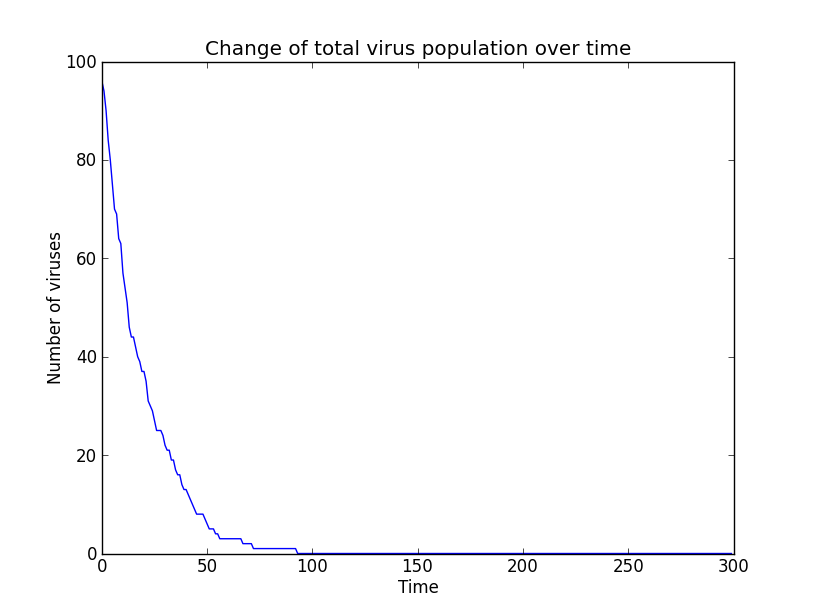
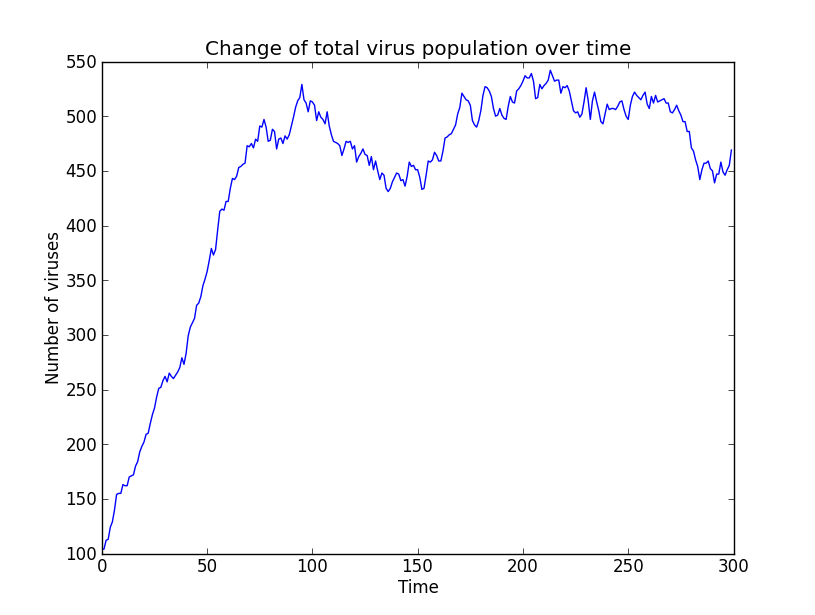
fixed the third and fourth problem. finally.

diff --git a/ps12.py b/ps12.py
@@ -166,7 +166,6 @@ def problem2():
     pylab.show()
 
     
-problem2()
 #
 # PROBLEM 3
 #
@@ -260,32 +259,32 @@ class ResistantVirus(SimpleVirus):
         maxBirthProb and clearProb values as this virus. Raises a
         NoChildException if this virus particle does not reproduce.         
         """
-        #if the virus reistant to any drug in, it should reproduce
-        canIReplicate = False
-        for drug in activeDrugs:
-            if drug not in self.resistances.keys() or self.resistances[drug] == True:
-                canIReplicate = True
-        willIReplicate = False
-        if canIReplicate:
-            willIReplicate = (random.random() < (self.maxBirthProb * (1 - popDensity)))
-        if canIReplicate and willIReplicate:
-            childResist = {}
-            #inheritance from parent virus
-            for resis in self.resistances.keys():
-                if (random.random() < (1 - self.mutProb)) and self.resistances[resis]:
-                    childResist[resis] = self.resistances[resis]
-                else:
-                    childResist[resis] = False
-            #developing new traits by mutation
-            for dres in activeDrugs:
-                if (random.random() < self.mutProb):
-                    childResist[dres] = not childResist[dres]
-                elif dres not in childResist.keys():
-                    childResist[dres] = False
-            return ResistantVirus(self.maxBirthProb, self.clearProb, childResist, self.mutProb)
+        #list of drugs the virus has resistance to
+        rsa = []
+        for drug in self.resistances.keys():
+            if self.resistances[drug] == True:
+                rsa.append(drug)
+        #check for resistance fro currently used drugs
+        if len(activeDrugs) != 0:
+            chance = len(set(rsa) & set(activeDrugs))
         else:
-            NoChildException()
-
+            chance = 1
+        #check if we should replicate
+        if random.random() < self.maxBirthProb * (1- popDensity):
+            secChance = True
+        else:
+            secChance = False
+        #replication
+        if secChance and chance != 0:
+            resistances = {}
+            for drug in self.resistances.keys():
+                if random.random() < (1 - self.mutProb):
+                    resistances[drug] = self.resistances[drug]
+                else:
+                    resistances[drug] = not self.resistances[drug]
+            return ResistantVirus(self.maxBirthProb, self.clearProb, resistances, self.mutProb)
+        else:
+            raise NoChildException()
             
 class Patient(SimplePatient):
     """
@@ -318,9 +317,7 @@ class Patient(SimplePatient):
 
         postcondition: list of drugs being administered to a patient is updated
         """
-        if newDrug in self.drugs:
-            pass
-        else:
+        if newDrug not in self.drugs:
             self.drugs.append(newDrug)
 
     def getPrescriptions(self):
@@ -347,7 +344,7 @@ class Patient(SimplePatient):
         for virus in self.viruses:
             resForSmg = False
             for drug in drugResist:
-                if virus.getResistance():
+                if virus.getResistance(drug):
                     resForSmg = True
             if resForSmg:
                 thePop += 1
@@ -374,23 +371,17 @@ class Patient(SimplePatient):
         """
         #decision for every virus instances, and deleting the unlucky ones
         mutableViruses = self.viruses.copy()
-        deleteViruses = []
         for vir in mutableViruses:
             if vir.doesClear():
-                deleteViruses.append(vir)
-        for dvir in deleteViruses:
-            if dvir in self.viruses:
-                mutableViruses.remove(dvir)
-        #updating self.viruses
-        self.viruses = mutableViruses
+                self.viruses.remove(vir)
         #calculating population density
-        popDensity = (self.getTotalPop() / self.maxPop)
-        newViruses = []
-        for vir in self.viruses:
-            newVir = vir.reproduce(popDensity, self.drugs)
-            if newVir == ResistantVirus:
-                newViruses.append(newVir)
-        self.viruses += newViruses
+        popDensity = (len(self.viruses) / self.maxPop)
+        mutableViruses = self.viruses.copy()
+        for vir in mutableViruses:
+            try:
+                self.viruses.append(vir.reproduce(popDensity, self.getPrescriptions()))
+            except NoChildException:
+                pass
         return self.getTotalPop()
 
 #
@@ -407,25 +398,28 @@ def problem4():
     total virus population vs. time  and guttagonol-resistant virus population
     vs. time are plotted
     """
-    timestepwodrugs = 15
-    tiestepwdrugs = 275
     virusPopOverTime = []
     startingVirusPopulation = []
     for i in range(100):
         startingVirusPopulation.append(ResistantVirus(0.1, 0.05, {'guttagonol':False}, 0.005))
     badLuckBrian = Patient(startingVirusPopulation, 1000)
-    for j in range(timestepwodrugs):
+
+    for j in range(150):
         virusPopOverTime.append(badLuckBrian.update())
     badLuckBrian.addPrescription('guttagonol')
-    for j in range(tiestepwdrugs):
+    for j in range(150):
         virusPopOverTime.append(badLuckBrian.update())
+        #print(badLuckBrian.getResistPop(['guttagonol']))
+
+
     pylab.plot(virusPopOverTime)
-    pylab.title('Change of total virus population over time')
+    pylab.title('Change of total advanced virus population over time')
     pylab.xlabel('Time')
     pylab.ylabel('Number of viruses')
     pylab.show()
 
 
+problem4()
 #
 # PROBLEM 5
 #
